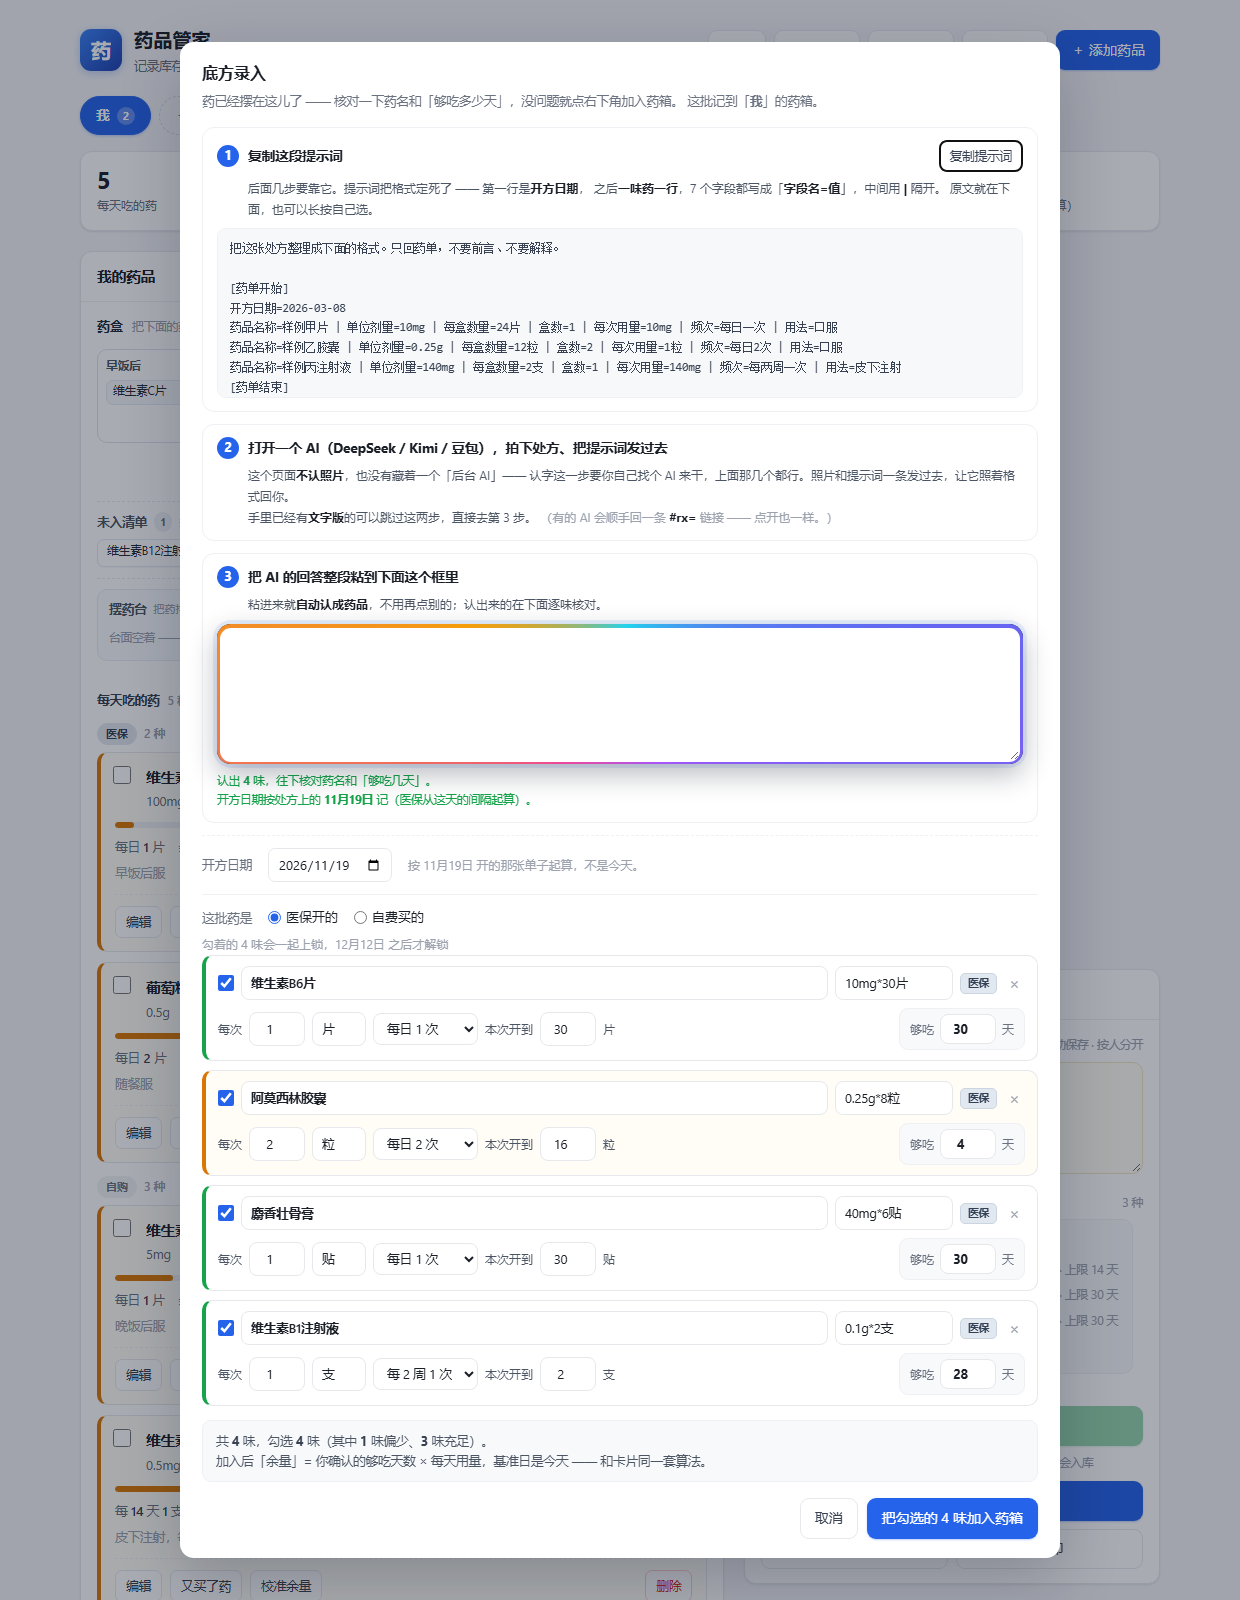
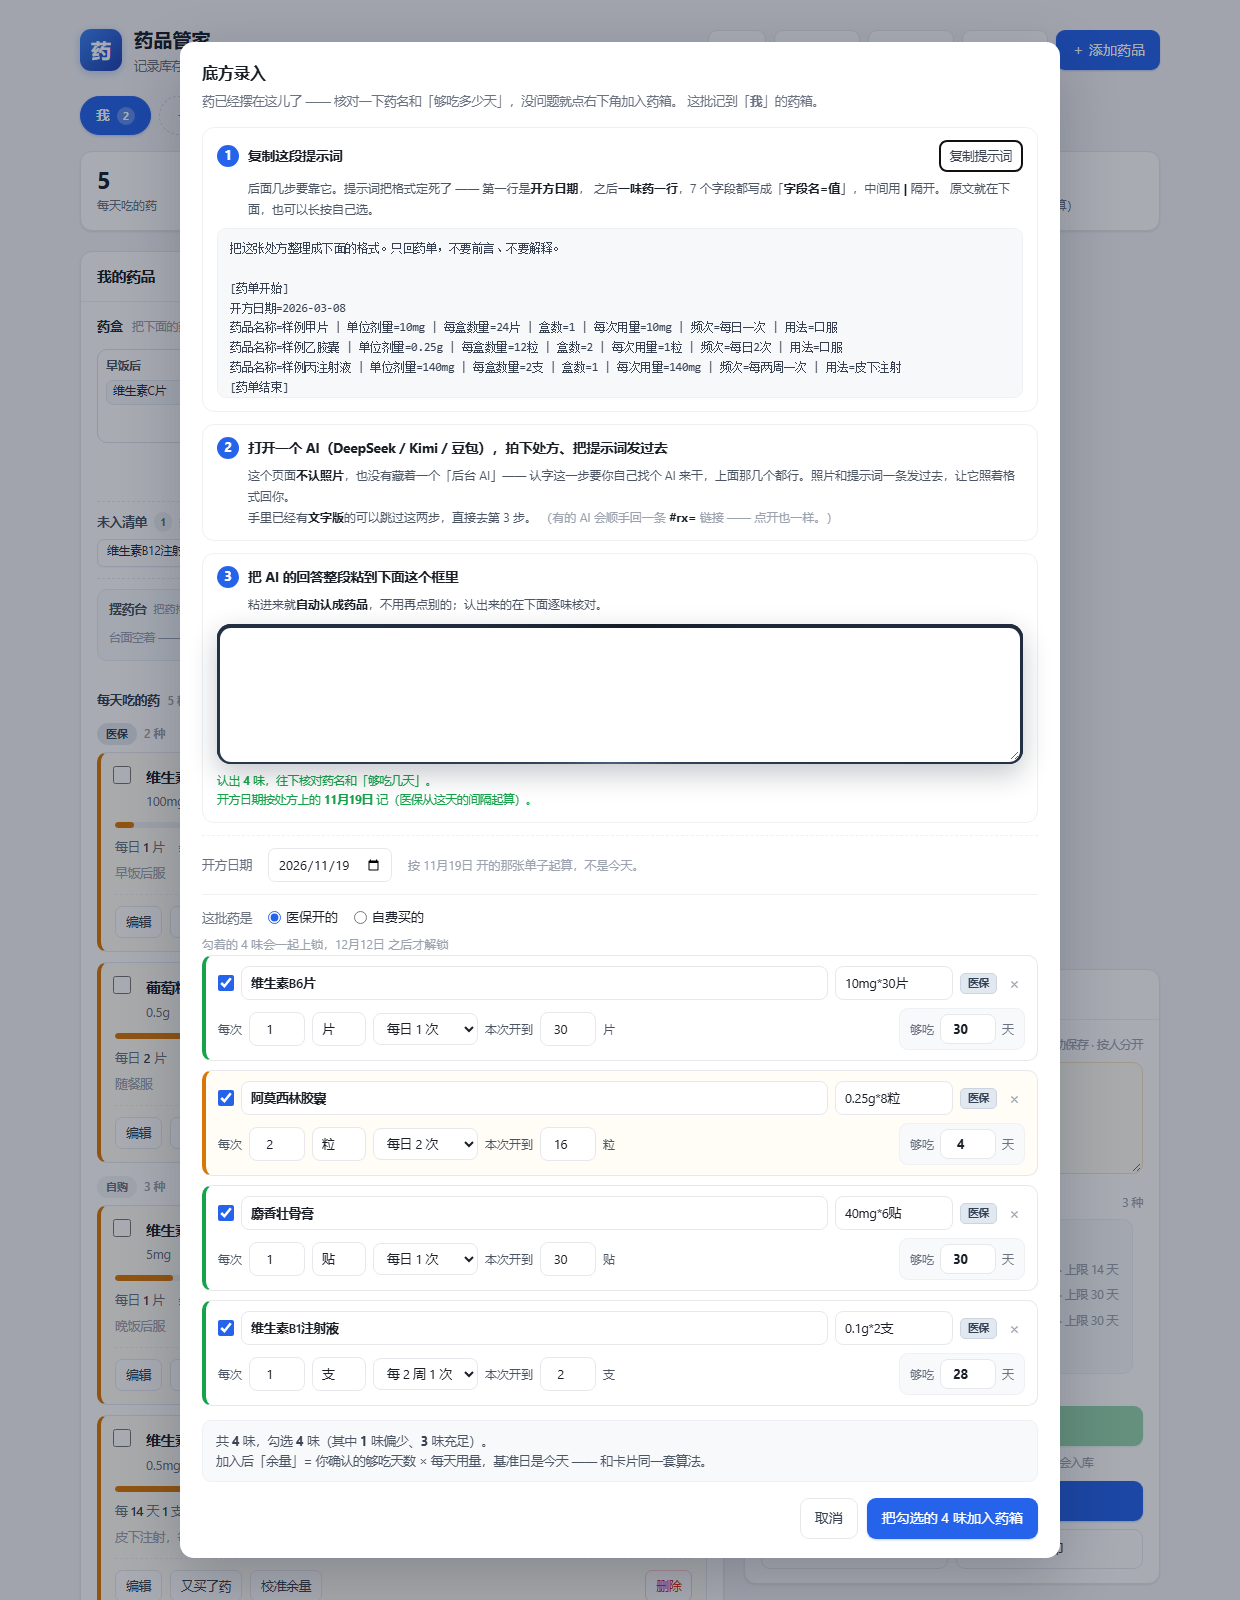
边框光定稿：整圈彩带 松绿+墨玉 亮度90，调色台拆掉

Changed region(s): [[0.1839, 0.375, 0.8274, 0.5], [0.1532, 0.4062, 0.1839, 0.4688]]

diff --git a/index.html b/index.html
@@ -755,29 +755,41 @@ input.wbad{border-color:#fca5a5;background:#fffafa}
   border:1px solid var(--line-2);border-radius:9px;white-space:pre-wrap;
   word-break:break-word;cursor:text;-webkit-user-select:all;user-select:all}
 /* 第 3 步那个黑框 —— 整页最醒目的一格。
-   ① 黑底浅字，跟周围全是浅色卡片，反差最大；
-   ② 边框跑马灯：一圈光绕着框转（用户原话「边边上要跑马灯那种效果」）。
+   ① 深色边框，跟周围全是浅色卡片，反差最大；
+   ② 边框跑马灯：一整圈绿色彩带绕着框慢慢走（用户原话「边边上要跑马灯那种效果」）。
    ★ 跑马灯用「转一个超大的锥形渐变伪元素」做的，**故意不用 @property / registerProperty** ——
      那套写角度动画，老一点的 Android WebView 根本没实现，手机上会一动不动；
      transform 的旋转从 Android 4.4 起就有，稳。
-   ★ 伪元素要盖住整个矩形：正方形边长取 3 倍框宽（内切圆半径 1.5 倍框宽 > 半对角线）。 */
+   ★ 伪元素要盖住整个矩形：正方形边长取 3 倍框宽（内切圆半径 1.5 倍框宽 > 半对角线）。
+   ★ 2026-11-20 定稿：用户先在页面里试了「配色 × 铺法 × 亮度」的调色台（他嫌黑占比太多），
+     最后定的是「整圈彩带 · 松绿 + 墨玉 · 亮度 90」。所以这版直接写死，调色台已拆掉：
+     松绿 hsl(150,32%) 走半圈、墨玉 hsl(170,26%) 走另外半圈，
+     接缝亮度取整条量程的 72% —— 再低就会显出一条黑缝（第一版就是栽在这儿）；
+     转起来像一条绿绸在绕，边框基本没有大片深色。转速 6s 一圈，慢而稳。
+     亮度 90 的换算：亮处 60.8%、暗处 11.3%，框底色取暗处的七成 ≈ hsl(150,32%,7.9%)。 */
 .rx-drop{position:relative;margin-top:10px;padding:3px;border-radius:14px;
-  background:#0b0f17;overflow:hidden;
-  box-shadow:0 10px 28px rgba(15,23,42,.26), 0 0 0 0 rgba(59,130,246,0);
-  animation:rxBreath 3.2s ease-in-out infinite}
+  background:#0e1b14;overflow:hidden;
+  box-shadow:0 10px 28px rgba(15,23,42,.24), 0 0 0 0 rgba(64,110,86,0);
+  animation:rxBreath 5.2s ease-in-out infinite}
 .rx-drop::before{content:'';position:absolute;left:50%;top:50%;width:300%;height:0;
   padding-bottom:300%;z-index:0;transform:translate(-50%,-50%) rotate(0deg);
-  background:conic-gradient(#22d3ee,#6366f1,#a855f7,#ec4899,#f59e0b,#22d3ee);
-  animation:rxRun 4s linear infinite}
+  background:conic-gradient(from 0deg,
+    hsl(150,32%,47%) 0deg,
+    hsl(150,32%,61%) 90deg,
+    hsl(170,26%,47%) 180deg,
+    hsl(170,26%,61%) 270deg,
+    hsl(150,32%,47%) 360deg);
+  animation:rxRun 6s linear infinite}
 @keyframes rxRun{
   from{transform:translate(-50%,-50%) rotate(0deg)}
   to  {transform:translate(-50%,-50%) rotate(360deg)}
 }
 /* 外圈那点呼吸的光：跑马灯是「绕圈跑」，这层是「整体一跳一跳」，
-   两个节奏差着，眼睛更容易被拽过来。别太亮 —— 太亮会把黑框里的字压住。 */
+   两个节奏差着，眼睛更容易被拽过来。这里只给一点点墨绿灰的晕，
+   别调亮 —— 一亮就会把框里的字压住。 */
 @keyframes rxBreath{
-  0%,100%{box-shadow:0 10px 28px rgba(15,23,42,.26), 0 0 0 0 rgba(59,130,246,0)}
-  50%    {box-shadow:0 10px 28px rgba(15,23,42,.30), 0 0 0 4px rgba(59,130,246,.12)}
+  0%,100%{box-shadow:0 10px 28px rgba(15,23,42,.24), 0 0 0 0 rgba(64,110,86,0)}
+  50%    {box-shadow:0 10px 28px rgba(15,23,42,.28), 0 0 0 3px rgba(64,110,86,.10)}
 }
 @media (prefers-reduced-motion:reduce){
   .rx-drop,.rx-drop::before{animation:none}

diff --git a/_check/test_rx_tpl.py b/_check/test_rx_tpl.py
@@ -639,8 +639,71 @@ PROBE = r"""
     var dropCs = drop ? window.getComputedStyle(drop, '::before') : null;
     ck('★ 边框那层真的在跑（::before 挂了旋转动画）',
        !!dropCs && /rxRun/.test(dropCs.animationName), dropCs && dropCs.animationName);
-    ck('跑马灯是彩色渐变（conic-gradient），不是纯黑边',
+    ck('跑马灯是渐变底（conic-gradient），不是一道死板的纯色边',
        !!dropCs && /gradient/.test(dropCs.backgroundImage), dropCs && dropCs.backgroundImage.slice(0, 34));
+    // ★ 2026-11-20 定稿：用户在页面里试完调色台，报的是
+    //   「整卷彩带 松绿 墨玉 亮度 90」。调色台整段已经拆掉，现在守的是：
+    //   ① 那套临时 UI 真的删干净了；② 渐变确实是松绿(h150)+墨玉(h170) 两段；
+    //   ③ 整圈没有大片深色（他嫌「黑占比太多」）；④ 首尾同色，转起来不跳；
+    //   ⑤ 峰值亮度落在「亮度 90」那一档，不是又暗回看不出光带。
+    function _stops(){
+      var b2 = window.getComputedStyle(drop, '::before').backgroundImage;
+      return (b2.match(/rgba?\([^)]+\)/g) || []).map(function(x){
+        return x.replace(/[^\d.,]/g, '').split(',').slice(0, 3).map(Number);
+      });
+    }
+    function _lum(c){
+      return (Math.max(c[0], c[1], c[2]) + Math.min(c[0], c[1], c[2])) / 510;
+    }
+    function _hue(c){
+      var r = c[0] / 255, g = c[1] / 255, b = c[2] / 255;
+      var mx = Math.max(r, g, b), mn = Math.min(r, g, b), d = mx - mn;
+      if(!d) return -1;
+      var h;
+      if(mx === r) h = ((g - b) / d) % 6;
+      else if(mx === g) h = (b - r) / d + 2;
+      else h = (r - g) / d + 4;
+      h *= 60;
+      return h < 0 ? h + 360 : h;
+    }
+    ck('★ 调色台整套已拆干净（色板 / 铺法 / 滑块 / 那行配置文案都没了）',
+       !q('#lampSw') && !q('#lampLv') && !q('#lampOut') && !q('#lampModeRow'),
+       'sw=' + !!q('#lampSw') + ' lv=' + !!q('#lampLv') + ' out=' + !!q('#lampOut'));
+
+    var _sts = _stops();
+    var _hs = _sts.map(_hue).filter(function(h){ return h >= 0; });
+    var _sg = _hs.filter(function(h){ return h >= 142 && h <= 160; }).length;
+    var _my = _hs.filter(function(h){ return h >= 163 && h <= 180; }).length;
+    ck('★ 定稿是「松绿 + 墨玉」两段绿带（色相 150° / 170°），不是一圈彩',
+       _sg >= 2 && _my >= 2, _sts.length + ' 个色标，松绿 ' + _sg + ' / 墨玉 ' + _my +
+       '（色相 ' + _hs.map(function(h){ return h.toFixed(0); }).join('/') + '）');
+
+    function _minLum(){
+      var m = 1;
+      _sts.forEach(function(c){ if(_lum(c) < m) m = _lum(c); });
+      return m;
+    }
+    function _peak(){
+      var m = 0;
+      _sts.forEach(function(c){ if(_lum(c) > m) m = _lum(c); });
+      return m;
+    }
+    ck('★ 整圈都铺满颜色，最暗处也不发黑（用户嫌「黑占比太多」）',
+       _minLum() > 0.35, '最暗色标亮度 ' + _minLum().toFixed(2) + '（0.47 那条接缝）');
+
+    var _p0 = _sts[0], _pN = _sts[_sts.length - 1];
+    ck('首尾同色，转一圈接缝处不跳色',
+       _p0.join(',') === _pN.join(','), _p0.join(',') + ' vs ' + _pN.join(','));
+
+    var _pk = _peak();
+    ck('★ 峰值亮度是「亮度 90」那一档（0.58~0.67），看得见光带又不刺眼',
+       _pk > 0.58 && _pk < 0.67, '峰值 ' + _pk.toFixed(2));
+
+    ck('框底色也跟着松绿走（不再是那层蓝灰 #18202c）',
+       /rgb\(1[0-9], 2[0-9], 2[0-9]\)|rgb\(14, 27, 20\)/.test(window.getComputedStyle(drop).backgroundColor),
+       window.getComputedStyle(drop).backgroundColor);
+    ck('跑马灯转得慢一些（≥5 秒一圈），不晃眼',
+       parseFloat(dropCs && dropCs.animationDuration) >= 5, dropCs && dropCs.animationDuration);
 
     // ③ 三个旧按钮全没了：解析成药品 / 手动加一味 / 批量填用法
     ck('「解析成药品」按钮没了（粘进来就自动认）', !q('#btnRxParse'));

diff --git a/README.md b/README.md
@@ -671,8 +671,18 @@ DeepSeek、Kimi、豆包，都行，就是你平时聊天那个窗口。
 2. **打开一个 AI**（DeepSeek / Kimi / 豆包），拍下处方、把提示词发过去；
 3. **把 AI 的回答整段粘到下面那个框里** —— **粘进来就自动认成药品**，不用再点任何按钮。
 
-第 3 步那个框是整页唯一的「重色块」：外面一圈**跑马灯**（彩色光带绕着框转，一眼能找到），
-里面是**白底黑字**（黑的是边框，不是整块 —— 2026-11-20 用户特意纠正过这一点）。
+第 3 步那个框是整页唯一的「重色块」：外面一圈**跑马灯**，里面是**白底黑字**
+（黑的是边框，不是整块 —— 2026-11-20 用户特意纠正过这一点）。
+
+这圈光的最终配色是 2026-11-20 定下来的：**整圈彩带 · 松绿 + 墨玉 · 亮度 90**
+（当天的调色台试完就拆了，只留这一套写死）。具体是半圈松绿 `hsl(150,32%)`、
+半圈墨玉 `hsl(170,26%)`，各自由 47% 走到 61% 再回来，接缝处不压到最暗
+（压狠了会显出一条黑缝 —— 他嫌的第一版就是「黑占比太多」）；框底色跟着调成墨绿
+`#0e1b14`，6 秒转一圈。看着是一条绿绸绕着框走，满圈都有颜色，没有大片深色。
+
+沿革记一笔，免得以后有人又改回彩虹：头一版是青紫粉橙的彩虹 → 用户说「太亮了」，
+压成一道雾蓝窄光 → 又说「完全看不出是光带了」，于是给成品色 × 亮度 × 铺法的调色台，
+最后他从里面挑了这套绿。
 
 认出几味、日期对不对，都写在框下面一行；认不出来（比如 AI 回了个空药单）会**留着原文**并说明，
 不会默默把你的内容清掉。
